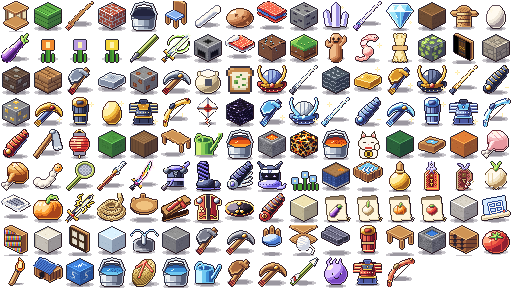
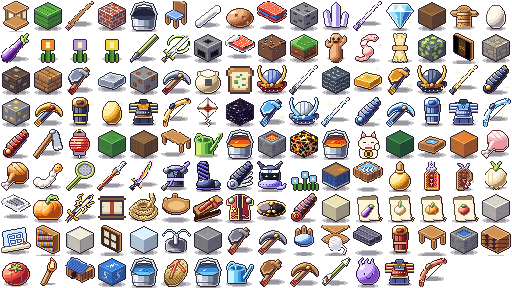
HOUSE-2A(3.3 版): レシピの まきものの 32×32 アイコン(仮)を アトラスに 足す
- art/icons32/recipe_scroll.png(16×16 の 仮の 絵を 2 倍。HOUSE-2B で かえる)・pack.py で アトラスを 作りなおし
- iconAtlas.test の 件数の ラベルを 合わせた(期待は 同じ: 全アイテムに 32×32 が ある)

Claude-Session: https://claude.ai/code/session_013nE4R2Rdi3iT4KXZRMbi8r

Changed region(s): [[0.0, 0.6562, 1.0, 1.0]]

diff --git a/src/ui/iconAtlas.test.ts b/src/ui/iconAtlas.test.ts
@@ -19,7 +19,7 @@ describe('ICON-32 アトラス', () => {
     expect(w).toBe(index.cols * ICON_SIZE);
     expect(h).toBe(Math.ceil(index.ids.length / index.cols) * ICON_SIZE);
   });
-  it('バッチ 2 で 全アイテムに 32×32 が ある（140/140）', () => {
+  it('バッチ 2 で 全アイテムに 32×32 が ある（142/142）', () => {
     const miss = (Object.keys(ITEM_DEFS) as ItemId[]).filter((id) => !hasAtlasIcon(id));
     expect(miss).toEqual([]);
   });
